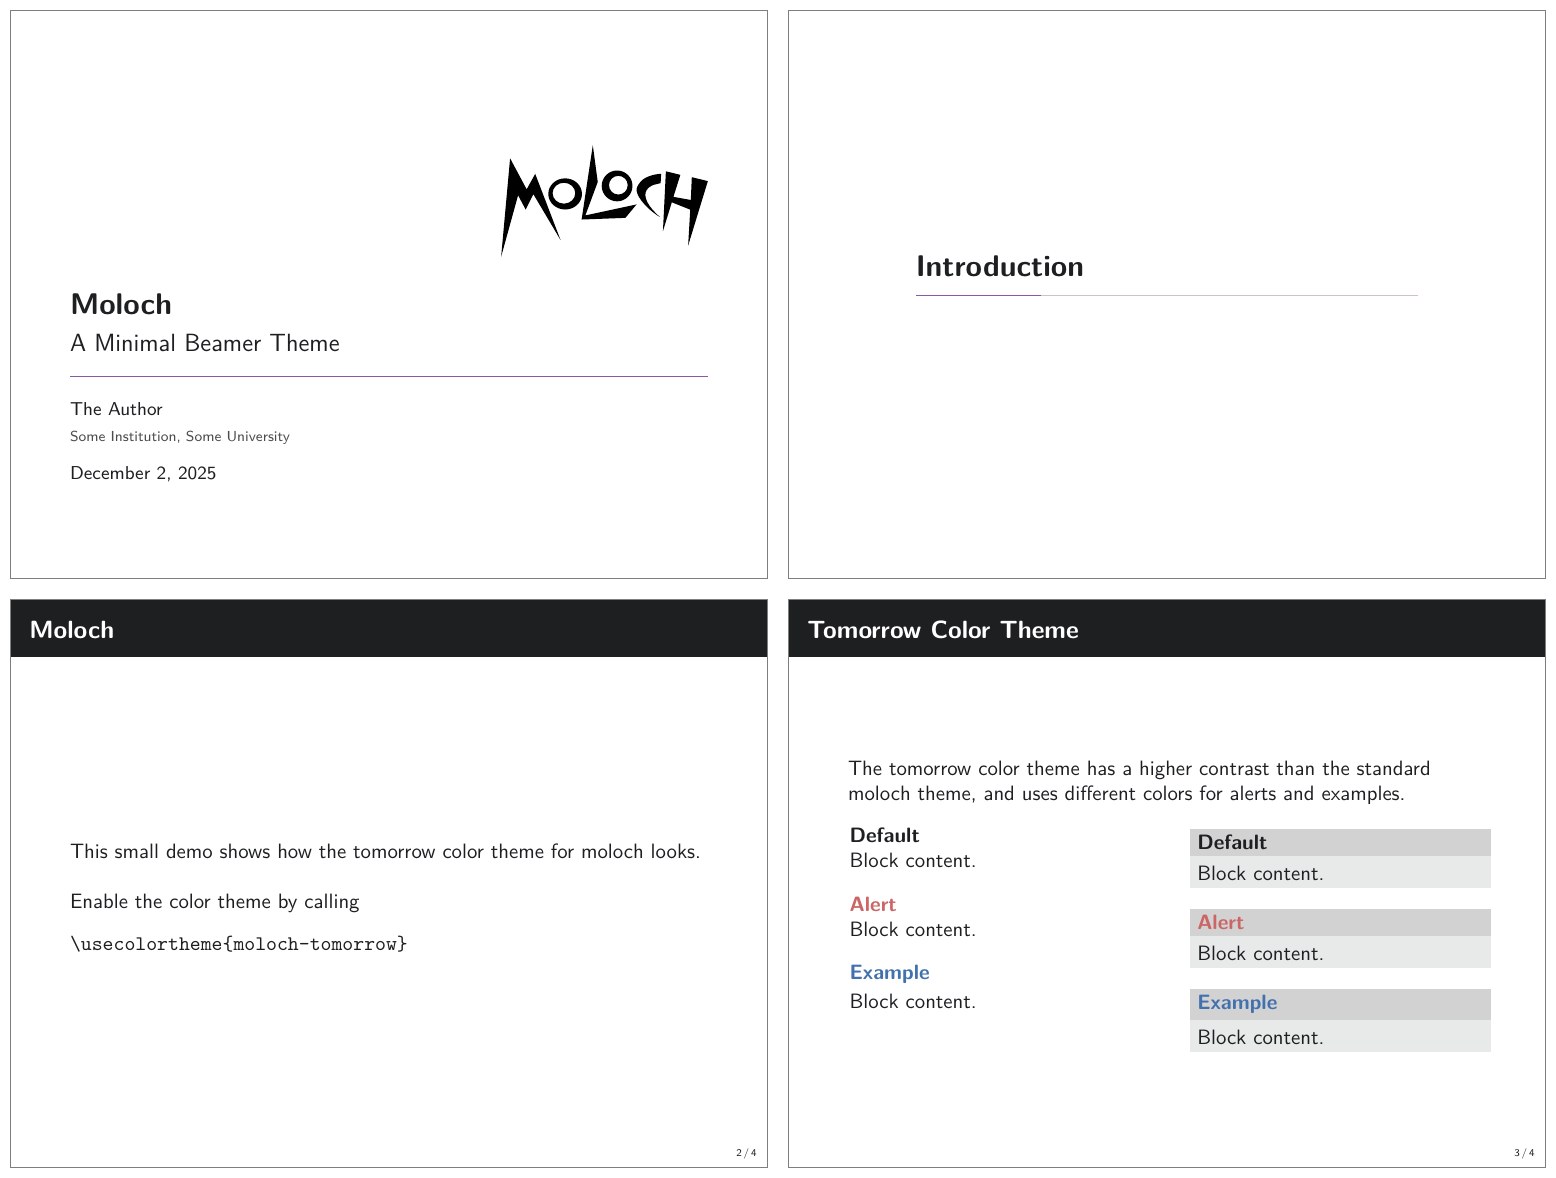
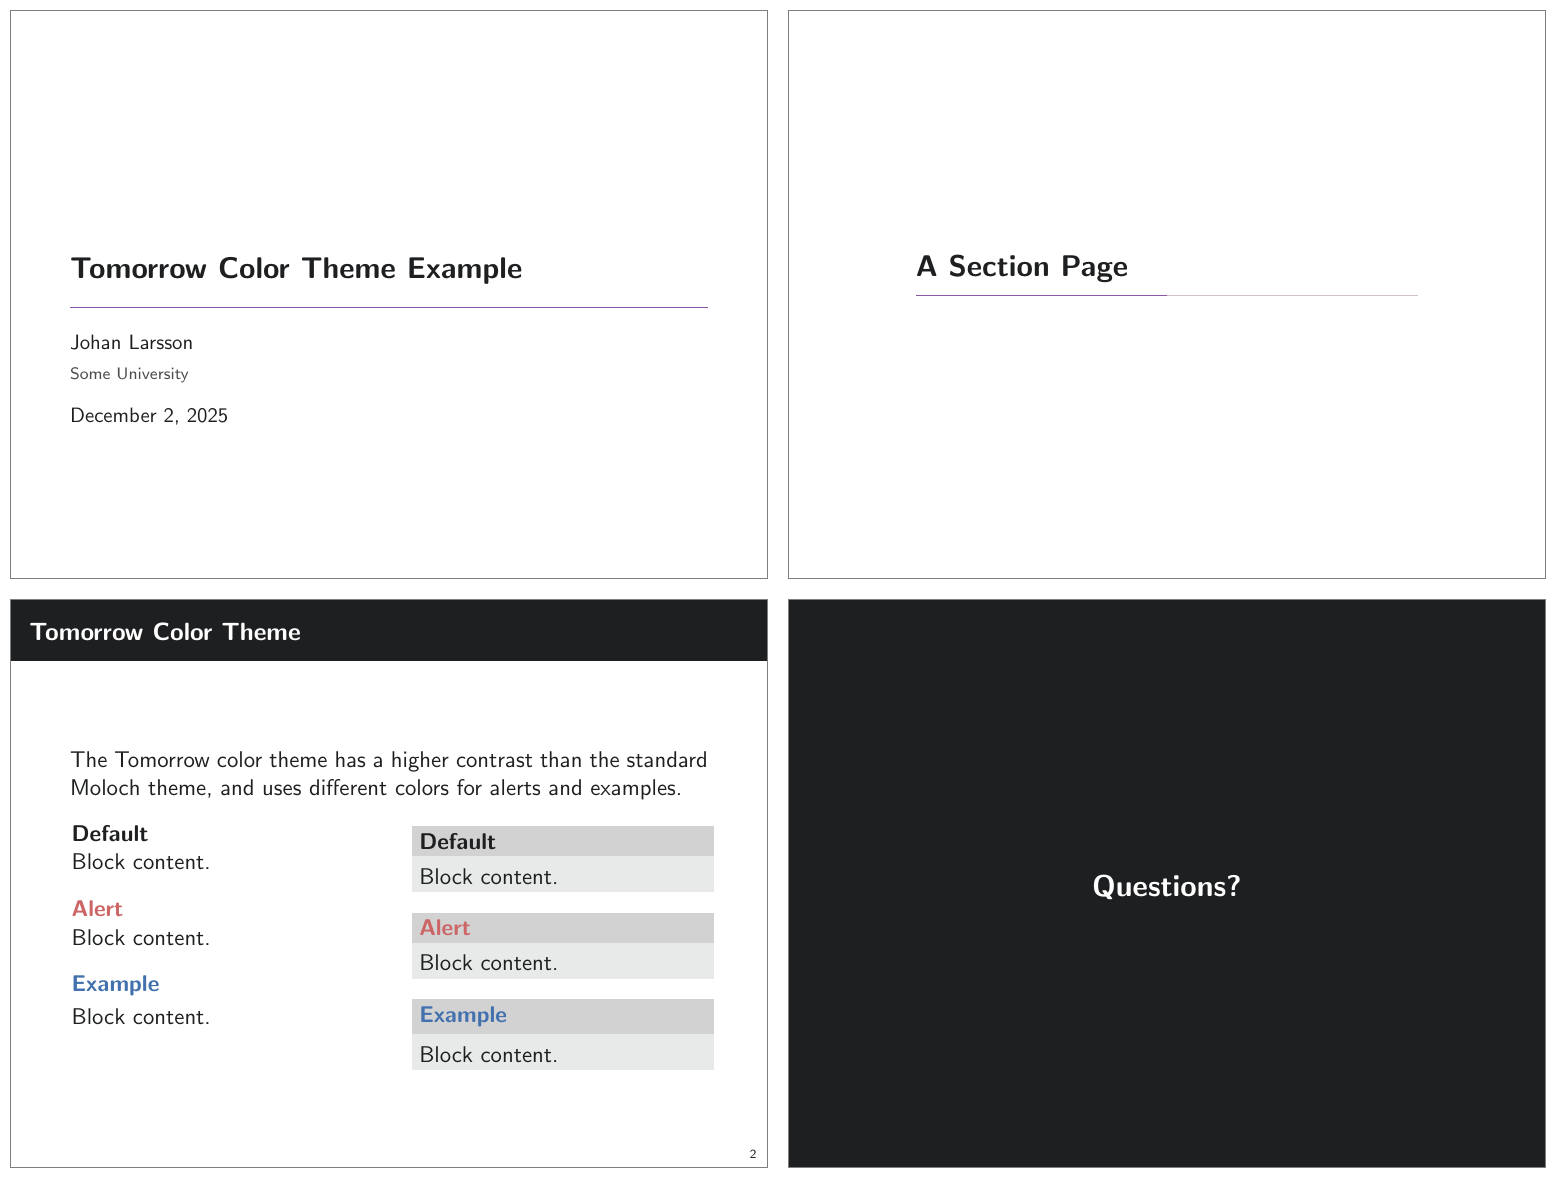
docs: add examples of color themes

diff --git a/examples/progressbar.tex b/examples/progressbar.tex
@@ -1,0 +1,42 @@
+\documentclass{beamer}
+
+\usetheme{moloch}
+
+\begin{document}
+
+\molochset{
+  progressbar=none, % The default
+  progressbar linewidth=5pt % Adjust the thickness of the progress bar
+}
+
+\begin{frame}
+  \frametitle{Progress Bar Example}
+
+  The default is to have no progress bar.
+\end{frame}
+
+\molochset{progressbar=head}
+
+\begin{frame}
+  \frametitle{Progress Bar Example}
+
+  The progress bar is now displayed at the top of the frame.
+\end{frame}
+
+\molochset{progressbar=foot}
+
+\begin{frame}
+  \frametitle{Progress Bar Example}
+
+  The progress bar is now displayed at the bottom of the frame.
+\end{frame}
+
+\molochset{progressbar=frametitle}
+
+\begin{frame}
+  \frametitle{Progress Bar Example}
+
+  The progress bar is now displayed below the frame title block.
+\end{frame}
+
+\end{document}

diff --git a/examples/colortheme-default.tex b/examples/colortheme-default.tex
@@ -1,9 +1,8 @@
 \documentclass{beamer}
 
 \usetheme{moloch}
-\usecolortheme{moloch-tomorrow}
 
-\title{Tomorrow Color Theme Example}
+\title{Default Color Theme Example}
 
 \date{\today}
 \author{Johan Larsson}
@@ -15,11 +14,11 @@
 
 \section{A Section Page}
 
-\begin{frame}[fragile]
-  \frametitle{Tomorrow Color Theme}
+\begin{frame}
+  \frametitle{Default Color Theme}
 
-  The Tomorrow color theme has a higher contrast than the standard Moloch
-  theme, and uses different colors for alerts and examples.
+  The default color theme has a light grey background with dark (but not black) text.
+  And uses orange for alerts and green for examples.
 
   \begin{columns}[T]
     \begin{column}{0.45\textwidth}

diff --git a/examples/colortheme-highcontrast.tex b/examples/colortheme-highcontrast.tex
@@ -1,9 +1,9 @@
 \documentclass{beamer}
 
 \usetheme{moloch}
-\usecolortheme{moloch-tomorrow}
+\usecolortheme{moloch-highcontrast}
 
-\title{Tomorrow Color Theme Example}
+\title{High Contrast Color Theme Example}
 
 \date{\today}
 \author{Johan Larsson}
@@ -15,10 +15,10 @@
 
 \section{A Section Page}
 
-\begin{frame}[fragile]
-  \frametitle{Tomorrow Color Theme}
+\begin{frame}
+  \frametitle{High Contrast Color Theme}
 
-  The Tomorrow color theme has a higher contrast than the standard Moloch
+  The high contrast color theme has a higher contrast than the standard Moloch
   theme, and uses different colors for alerts and examples.
 
   \begin{columns}[T]

diff --git a/examples/sectionpage-styles.tex b/examples/sectionpage-styles.tex
@@ -1,0 +1,19 @@
+\documentclass{beamer}
+
+\usetheme{moloch}
+
+\begin{document}
+
+\molochset{sectionpage=progressbar}
+
+\section{Section One}
+
+\molochset{sectionpage=simple}
+
+\section{Section Two}
+
+\molochset{sectionpage=none}
+
+\section{Section Three}
+
+\end{document}

diff --git a/docs/customization.md b/docs/customization.md
@@ -1,7 +1,5 @@
 # Customization
 
-## Package Options
-
 The theme provides a number of options, which can be set using a key=value
 interface. The primary way to set options is to provide a comma-separated list
 of option-value pairs when loading Moloch in the preamble:
@@ -34,7 +32,7 @@ A short description of the option.
 
 :::
 
-### Main Theme
+## Main Theme
 
 ::: {.describe-option option-name="titleformat" values="regular, smallcaps,
 allsmallcaps, allcaps" default="regular"}
@@ -54,7 +52,10 @@ Changes the format of "standout" frames (see `titleformat`, above).
 
 :::
 
-### Inner Theme
+## Inner Theme
+
+These options control the inner theme, which is responsible for elements like
+section and subsection pages.
 
 ::: {.describe-option option-name="sectionpage" values="none, simple,
 progressbar" default="progressbar"}
@@ -64,6 +65,29 @@ progress bar below the section title (`progressbar`). The `none` option disables
 the section page.
 
 :::
+
+```latex
+\documentclass{beamer}
+\usetheme{moloch}
+
+\begin{document}
+
+\molochset{sectionpage=progressbar} % the default
+
+\section{Section One}
+
+\molochset{sectionpage=simple}
+
+\section{Section Two}
+
+\molochset{sectionpage=none}
+
+\section{Section Three} % Will not have a section page
+
+\end{document}
+```
+
+![Example of the `sectionpage` options.](./images/example-sectionpage-styles.png)
 
 ::: {.describe-option option-name="subsectionpage" values="none, simple,
 progressbar" default="none"}
@@ -88,7 +112,10 @@ number count is shown in the same fashion as for regular frames.
 
 :::
 
-### Outer Theme
+## Outer Theme
+
+These options control the outer theme, which is responsible for elements like
+the frame numbering and progress bar.
 
 ::: {.describe-option option-name="numbering" values="none, counter, fraction"
 default="(none specified)"}
@@ -109,7 +136,51 @@ each frame (`foot`), or directly below each frame title (`frametitle`).
 
 :::
 
-### Color Theme
+```latex
+\documentclass{beamer}
+
+\usetheme{moloch}
+
+\begin{document}
+
+\molochset{progressbar=none} % the default
+
+\begin{frame}
+  \frametitle{Progress Bar Example}
+
+  The default is to have no progress bar.
+\end{frame}
+
+\molochset{progressbar=head}
+
+\begin{frame}
+  \frametitle{Progress Bar Example}
+
+  The progress bar is now displayed at the top of the frame.
+\end{frame}
+
+\molochset{progressbar=foot}
+
+\begin{frame}
+  \frametitle{Progress Bar Example}
+
+  The progress bar is now displayed at the bottom of the frame.
+\end{frame}
+
+\molochset{progressbar=frametitle}
+
+\begin{frame}
+  \frametitle{Progress Bar Example}
+
+  The progress bar is now displayed in the frametitle area.
+\end{frame}
+
+\end{document}
+```
+
+![Example of the `progressbar` options.](./images/example-progressbar.png)
+
+## Color Theme
 
 These options control color aspects of the theme, and are forwarded to the color
 theme.
@@ -173,7 +244,7 @@ the reverse.
 ![Example of the "background" option set to "dark", swapping the foreground and
 background colors.](./images/example-background.png)
 
-### Font Theme
+## Font Theme
 
 ::: {.describe-option option-name="titleformat plain, titleformat frametitle,
 titleformat section" values="regular, smallcaps, allsmallcaps, allcaps"
@@ -194,15 +265,16 @@ three beamer colors:
 - `alerted text` (colored fg, should be visible against dark or light)
 - `example text` (colored fg, should be visible against dark or light)
 
-An easy way to customize the theme is to redefine these colors using
+An easy way to customize the theme is to redefine these colors using the
+following syntax in your preabmle:
 
 ```latex
 \setbeamercolor{ ... }{ fg= ... , bg= ... }
 ```
 
-in your preamble. For greater customization, you can redefine any of the other
-stock beamer colors. In addition to the stock colors the theme defines a number
-of Moloch specific colors, which can also be redefined to your liking.
+For additional customization, you can redefine any of the other stock beamer
+colors. In addition to the stock colors the theme defines a number of Moloch
+specific colors, which can also be redefined to your liking.
 
 ```latex
 \setbeamercolor{progress bar}{ ... }
@@ -211,7 +283,21 @@ of Moloch specific colors, which can also be redefined to your liking.
 \setbeamercolor{progress bar in section page}{ ... }
 ```
 
-### Themes
+## Themes
+
+### Default Theme
+
+The default color theme is almost exactly the same as in the original Metropolis
+theme, except we have modified the green color for the example blocks to be a
+bit less saturated.
+
+```latex
+\usecolortheme{moloch}
+```
+
+![Example of the default Moloch color theme.](./images/example-colortheme-default.png)
+
+### The High Contrast Theme
 
 For low-light situations Moloch it might be helpful to use the
 `moloch-highcontrast` color theme. It is enabled like any other color theme:
@@ -220,10 +306,16 @@ For low-light situations Moloch it might be helpful to use the
 \usecolortheme{moloch-highcontrast}
 ```
 
+![Example of the high contrast color theme.](./images/example-colortheme-highcontrast.png)
+
+### The Tomorrow Theme
+
 There is also a theme based on the
-[https://github.com/chriskempson/tomorrow-theme](tomorrow color theme), which
+[https://github.com/chriskempson/tomorrow-theme](Tomorrow color theme), which
 you can enable like this:
 
 ```latex
 \usecolortheme{moloch-tomorrow}
 ```
+
+![Example of the Tomorrow color theme.](./images/example-colortheme-tomorrow.png)
